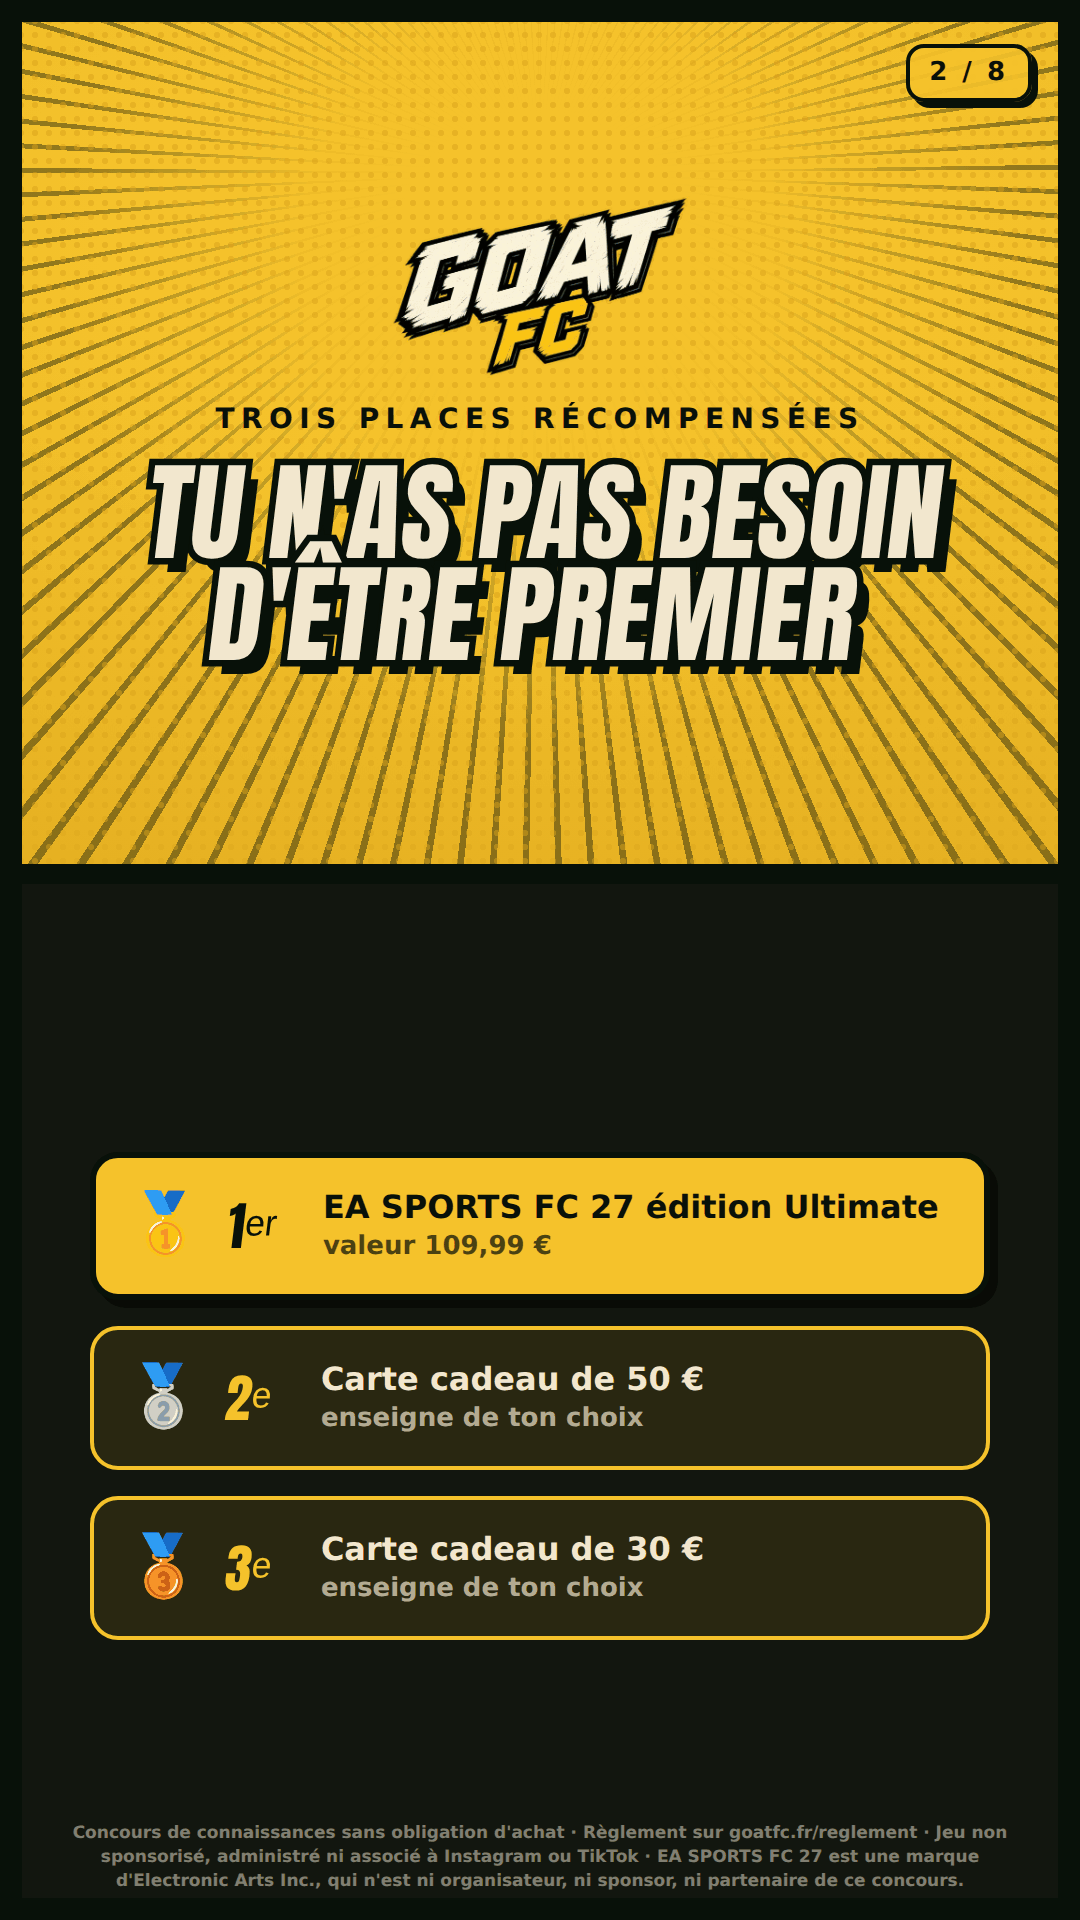
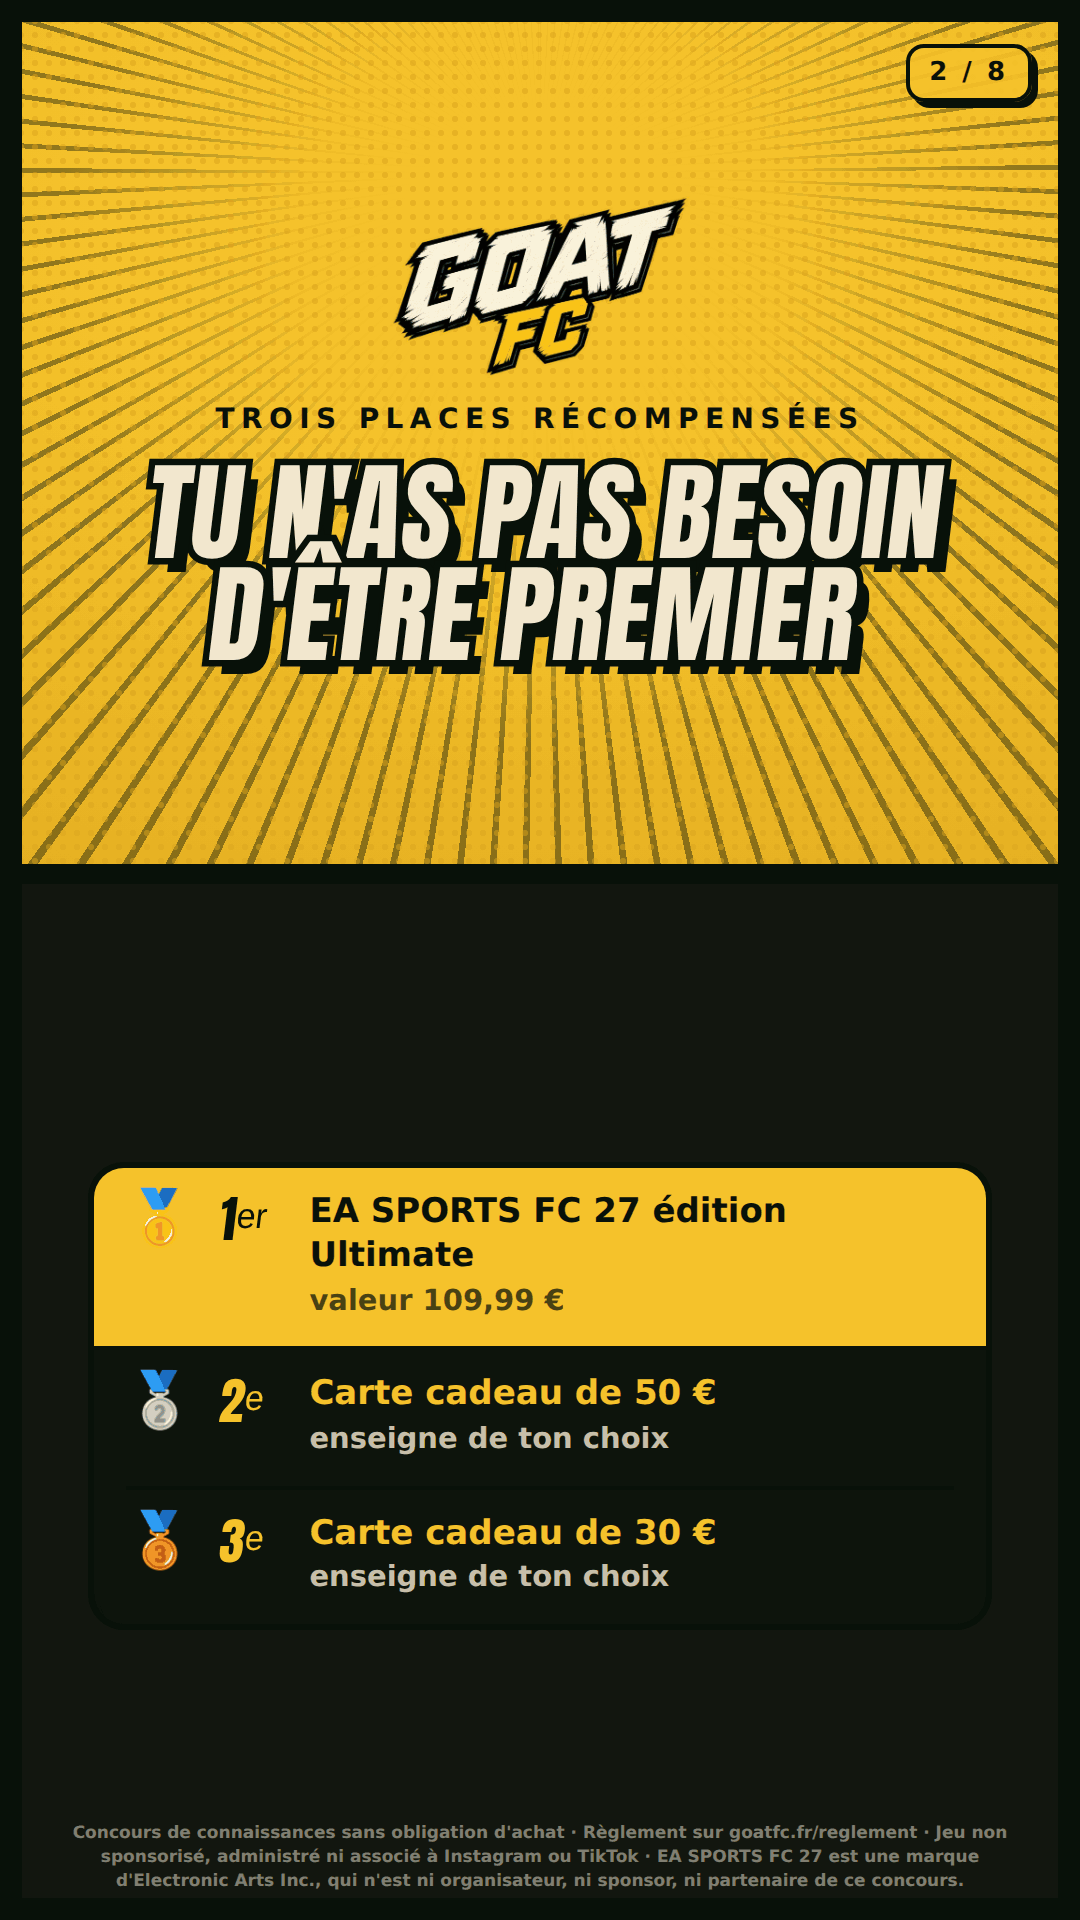
Carrousel : les listes reprennent le motif de l'app, pas des vignettes (#608)
Signalement : « j'aime pas les encadres, c'est pas le style de mon app ».
Verifiable, et exact.

J'encadrais CHAQUE element d'un filet d'or fin sur le fond de nuit. Ce
n'est pas un motif de la charte, c'en est l'inverse : la charte n'a que des
aplats opaques cercles d'ENCRE. Un filet d'or empile faisait une grille de
vignettes, vocabulaire qui appartient au verre et pas a l'affiche.

Le vrai motif est dans l'app, feuille « Regles du jeu » de LePont.jsx :
UN SEUL panneau, trait d'encre 3 px, ombre INTERIEURE, et des lignes
separees par un filet d'encre fin. La pastille du numero est un rayon franc
rempli d'or et cercle d'encre — pas un cercle sans contour, qui avait
justement ete retire de l'app pour la meme raison.

Copie sur l'ecran, pas recomposee de memoire : un motif « a peu pres juste »
se voit tout de suite a cote de l'original.

Les quatre formes de liste (regles numerotees, interdits, inventaire, dates)
et le podium partagent desormais cette enveloppe unique. La 1re place se
distingue par un APLAT D'OR sur sa ligne, pas par un cadre de plus — la
hierarchie se voit sans lire, et l'or est ce que la charte emploie pour dire
« celui-la ».

Deux corrections trouvees en regardant le rendu :
  • l'aplat d'or, tire aux bords par ses marges negatives, depassait le
    rayon du panneau et lui faisait des coins carres → overflow:hidden ;
  • la diapositive de l'edition Ultimate tombait a 9 px du bord, mesure par
[…]

Changed region(s): [[0.0611, 0.5938, 0.9167, 0.875]]

diff --git a/public/sw.js b/public/sw.js
@@ -4,7 +4,7 @@
 // IMPORTANT : bumper CACHE_NAME à chaque deploy pour forcer le navigateur
 // à détecter un nouveau SW (les changements de fichier suffisent en théorie
 // mais ça garantit un install propre côté PWA mobile installée).
-const CACHE_NAME = "goatfc-v547-2026-08-15";
+const CACHE_NAME = "goatfc-v548-2026-08-15";
 
 // Install : on prend la main tout de suite sans attendre la fermeture des onglets
 self.addEventListener("install", (event) => {
